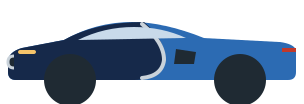
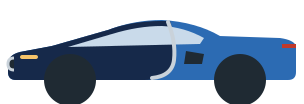
Reshape the sports car roof so the front is easy to see
The roof peak is now toward the back, the windshield is long and slopes
down to a low hood, and the rear deck is higher than the hood.

Claude-Session: https://claude.ai/code/session_01F1XyeJbkdn1kDtDDVeB88k

Changed region(s): [[0.0, 0.1731, 0.977, 0.7788]]

diff --git a/tools/generate_images.py b/tools/generate_images.py
@@ -333,13 +333,15 @@ save(truck, "0 0 300 130", 300, 130, "car_truck.png")
 # Sports car in the style of a Bugatti: low and long, two-tone blue, a curved
 # line on the side, and a horseshoe-shaped grille at the front
 SP, SPD, CHROME = "#2C6BB3", "#16294A", "#C9D2DA"
-sports = (f'<path fill="{SP}" d="M8,72 L8,50 Q10,44 24,42 L100,38 Q140,22 172,22 Q208,22 240,40 L282,48 Q296,52 296,62 L296,72 Q296,80 288,80 L16,80 Q8,80 8,72 Z"/>'
-          f'<path fill="{SPD}" d="M160,22 Q208,22 240,40 L282,48 Q296,52 296,62 L296,72 Q296,80 288,80 L170,80 Q142,80 140,60 Q138,40 160,22 Z"/>'
-          f'<path d="M162,24 Q140,42 140,60 Q142,76 162,78" stroke="{CHROME}" stroke-width="4" fill="none" stroke-linecap="round"/>'
-          f'<path fill="{GLASS}" d="M118,38 Q142,27 170,27 Q200,27 226,40 Z"/>'
-          f'<path fill="{DARK}" d="M108,52 L128,49 L130,64 L110,64 Z"/>'
-          f'<path d="M290,56 Q296,56 296,62 Q296,68 290,68" stroke="{CHROME}" stroke-width="3" fill="{DARK}"/>'
-          '<rect x="268" y="50" width="18" height="4" rx="2" fill="#F6C46A"/><rect x="8" y="48" width="14" height="4" fill="#C0392B"/>'
+# The roof peak is toward the back and the windshield is long and low, so the
+# front (right side) is easy to see. The hood is lower than the rear deck.
+sports = (f'<path fill="{SP}" d="M8,72 L8,46 Q10,40 24,38 L84,36 Q108,22 142,20 Q170,20 196,30 L252,46 L284,52 Q296,55 296,64 L296,72 Q296,80 288,80 L16,80 Q8,80 8,72 Z"/>'
+          f'<path fill="{SPD}" d="M134,21 Q170,20 196,30 L252,46 L284,52 Q296,55 296,64 L296,72 Q296,80 288,80 L160,80 Q132,80 130,60 Q128,38 134,21 Z"/>'
+          f'<path fill="{GLASS}" d="M100,38 Q120,27 142,26 Q166,26 192,34 L236,47 L104,44 Z"/>'
+          f'<path d="M136,22 Q128,42 130,60 Q132,76 152,78" stroke="{CHROME}" stroke-width="4" fill="none" stroke-linecap="round"/>'
+          f'<path fill="{DARK}" d="M100,54 L118,51 L120,64 L102,64 Z"/>'
+          f'<path d="M290,58 Q296,58 296,64 Q296,70 290,70" stroke="{CHROME}" stroke-width="3" fill="{DARK}"/>'
+          '<rect x="266" y="55" width="18" height="4" rx="2" fill="#F6C46A"/><rect x="8" y="44" width="14" height="4" fill="#C0392B"/>'
           + wells([(64, 80), (234, 80)], 26))
 save(sports, "0 0 304 104", 304, 104, "car_sports.png")
 
